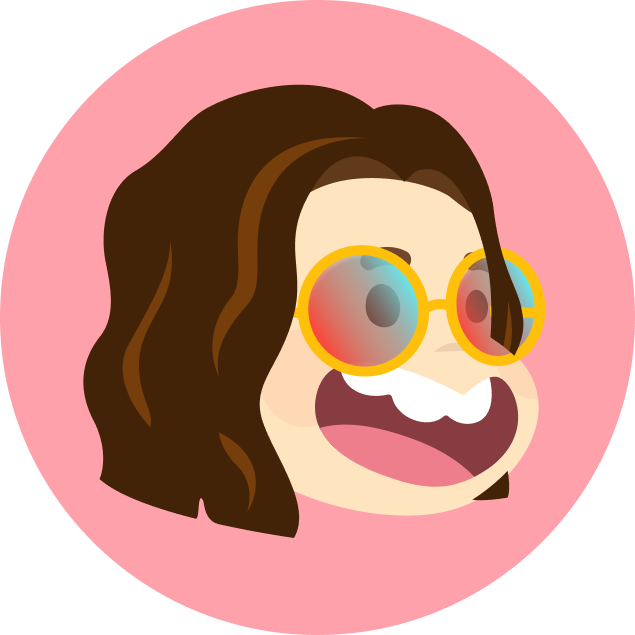
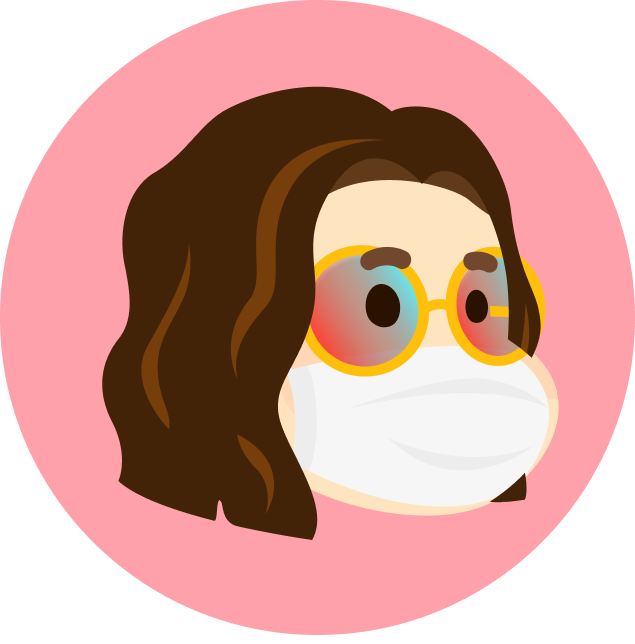
Finalizei a tela de profile e comecei a adicionar alertas no site

diff --git a/code/css/style.css b/code/css/style.css
@@ -71,6 +71,7 @@ body{
                       linear-gradient(to right, #64E8F0, #FF4034);
     background-origin: border-box;
     background-clip: content-box, border-box;
+    cursor: pointer;
 }
 
 /* Personalização add filme */
@@ -102,12 +103,8 @@ body{
     background-color: #232323;
     color: white;
     /* Propriedades para conseguir arredondar a borda com um gradiente */
-    border: double 0.2em transparent;
     border-radius: 7px;
-    background-image: linear-gradient(#232323, #232323), 
-                      linear-gradient(to right, #64E8F0, #FF4034);
-    background-origin: border-box;
-    background-clip: content-box, border-box;
+    border: #FF4034 3px solid;
 }
 
 .row{
@@ -123,12 +120,8 @@ body{
     color: white;
     
     /* Propriedades para conseguir arredondar a borda com um gradiente */
-    border: double 0.2em transparent;
     border-radius: 7px;
-    background-image: linear-gradient(#232323, #232323), 
-                      linear-gradient(to right, #64E8F0, #FF4034);
-    background-origin: border-box;
-    background-clip: content-box, border-box;
+    border: #FF4034 3px solid;
 }
 
 
@@ -141,16 +134,13 @@ body{
     font-family: Roboto, Oxygen, Ubuntu, Cantarell, 'Open Sans', 'Helvetica Neue', sans-serif;
     background-color: #232323;
     /* Propriedades para conseguir arredondar a borda com um gradiente */
-    border: double 0.2em transparent;
     border-radius: 7px;
-    background-image: linear-gradient(#232323, #232323), 
-                      linear-gradient(to right, #64E8F0, #FF4034);
-    background-origin: border-box;
-    background-clip: content-box, border-box;
+    border: #FF4034 3px solid;
+   
 }
 
 
-button{
+.validate{
     height: 40px;
     width: 150px;
     display: flex;
@@ -210,6 +200,28 @@ button{
     justify-content: space-evenly;
 }
 
+.avatarMask{
+    display: flex;
+    align-items: center;
+    justify-content: center;
+    border-radius: 70px;
+    height: 120px;
+    width: 400px;
+    background-color: whitesmoke;
+}
+
+.imageMask{
+    display: flex;
+    justify-content: space-evenly;
+    width: 100%;
+}
+.sizePhoto{
+    height: 85px;
+    border: #ea0000 solid 5px;
+    border-radius: 52px;
+    cursor: pointer;
+}
+
 .initial label{
     color: white;
     font-size: 30px;
@@ -239,4 +251,22 @@ button{
 
 .inModify label{
     color: white;
+    font-size: 18px;
+    }
+
+.modifyButton{
+    height: 40px;
+    width: 150px;
+    display: flex;
+    align-items: center;
+    justify-content: center;
+    color: white;
+    
+/* Propriedades para conseguir arredondar a borda com um gradiente */
+    border: double 0.2em transparent;
+    border-radius: 7px;
+    background-image: linear-gradient(#4F4E63, #4F4E63), 
+                      linear-gradient(to right, #64E8F0, #FF4034);
+    background-origin: border-box;
+    background-clip: content-box, border-box;
 }

diff --git a/code/html/login.html b/code/html/login.html
@@ -6,6 +6,8 @@
     <title>Tela de login</title>
     <link rel="stylesheet" href="../css/styleLogin.css">
     <link rel="icon" type="image/png" sizes="16x16" href="../assets img/favicon-16x16.png">
+    <script src="https://unpkg.com/sweetalert/dist/sweetalert.min.js"></script>
+
 </head>
 <body>
     <section class="div_geral">  
@@ -32,14 +34,20 @@
                         <input id="input_senha" type="password" placeholder="Digite aqui sua senha">
                     </div>
 
-                    <div class="div_botao">
-                        <button class="botao_entrar">
+                    <div class="div_botao"> 
+                        <button type="button" onclick="location.href = '../html/cadastro.html'" class="botao_entrar">
+                            Cadastre-se
+                        </button>
+
+                        <button type="submit" class="botao_entrar">
                             ENTRAR
                         </button>
                     </div>
 
-                    <div class="message">
-                       Ainda não tem conta?  <a href="../html/cadastro.html"> Registre-se aqui!</a>
+                    <div class="message" onclick="popup(event)">
+                        <a href="">
+                            Esqueci a senha
+                        </a>  
                     </div>
                 </form>
             </div>
@@ -48,4 +56,18 @@
 
 </body>
 </html>
+
 <script src="../js/configLogin.js"> </script>
+<script>
+    function popup(event) {
+        event.preventDefault()
+        swal({
+            text: 'Escreva aqui o email cadastrado',
+            content: "input",
+            button: {
+                text: "Enviar código",
+                closeModal: true,
+                        }
+                    })
+    }
+</script>

diff --git a/code/html/profile.html b/code/html/profile.html
@@ -28,13 +28,17 @@
                 <img src="../assets img/avatarThais.png" alt="" class="imageTails">
             </div>
             <label for="" class="">Thaís Calazans</label> 
+
+            <div class="avatarMask">
+                <div class="imageMask">
+                    <img src="../assets img/avatarThais.png" alt="Avatar com mascara"   class="sizePhoto">
+                    <img src="../assets img/AvatarPreta.png" alt="Avatar com mascara 2" class="sizePhoto">
+                    <img src="../assets img/Avatar Isa.png"  alt="Avatar com mascara 3" class= "sizePhoto">
+                </div>
+            </div>
         </div>
         
         <form action="" class="dataModify" onsubmit="validarCadastro(event)">
-            <div class="inModify">
-                <label for="input_nome">NOME</label>
-                <input id="input_nome" type="text">
-            </div>
             
             <div class="inModify">
                 <label for="input_email">ALTERAR EMAIL</label>
@@ -50,6 +54,10 @@
                 <label for="input_Csenha">CONFIRMAR NOVA SENHA</label>
                 <input id="input_Csenha" type="password" value="thais">
             </div>
+
+            <button class="modifyButton">
+                Salvar alterações
+            </button>
     </section>
 </body>
 </html>

diff --git a/code/html/add.html b/code/html/add.html
@@ -6,6 +6,8 @@
     <title>Adicionar Filme</title>
     <link rel="stylesheet" href="../css/style.css">
     <link rel="icon" type="image/png" sizes="16x16" href="../assets img/favicon-16x16.png">
+    <script src="https://unpkg.com/sweetalert/dist/sweetalert.min.js"></script>
+
 </head>
 <body>
     <aside id="menuVertical">
@@ -26,7 +28,7 @@
         <form class="data_movie" action="">
             <div class="in">
                 <label for="title">Título do filme</label> 
-                <input id="title" type="text">
+                <input id="title" type="text" required>
             </div>
 
             <div class="row">
@@ -50,7 +52,7 @@
                 <input id="synopsis" type="text" required>
             </div>
             
-            <button class="validate"> Cadastrar filme </button>
+            <button class="validate" onclick="validar(event)"> Cadastrar filme </button>
         </form>
 
         <div class="photo">
@@ -59,3 +61,9 @@
     </section>
 </body>
 </html>
+<script>
+    function validar(event) {
+        event.preventDefault()
+        swal("Obrigada!", "Agora você ajudou outra pessoa a escolher o próximo filme!", "success");  
+    }
+</script>

diff --git a/code/html/cadastro.html b/code/html/cadastro.html
@@ -10,7 +10,6 @@
 </head>
 <body>
     <section class="generalFront">
-
         <div class="registerPhoto">
             <img class="popcornGlass" src="../assets img/fotoCadastro.png" alt="Pipoca, óculos e refrigerante">
         </div>
@@ -40,6 +39,12 @@
                 </div>
                 
                 <div class="div_botao">
+                    <div class="arrow">
+                        <a href="../html/login.html">
+                            <img src="../assets img/Arrow - Left Circle.png" alt="Flecha" class="arrowOnly">
+                        </a>
+                    </div>
+
                     <button>
                         <a href="../html/login.html"></a>
                         Cadastrar

diff --git a/code/css/styleCadastro.css b/code/css/styleCadastro.css
@@ -13,6 +13,7 @@
     margin: 0;
 }
 
+
 .registerPhoto{
     height: 100vh;
     width: 50vw;
@@ -61,10 +62,19 @@
     background-color: #ffffff;
 }
 
+.arrow{
+    height: 50px;
+}
+
+.arrowOnly{
+    height: 50px;
+    width: 50px;
+}
+
 .div_botao{
     display: flex;
-    justify-content: center;
-    margin: 15px 0px 0px 0px;
+    justify-content: space-evenly;
+    align-items: center;
 }
 
 .div_botao button{

diff --git a/code/css/styleLogin.css b/code/css/styleLogin.css
@@ -72,13 +72,13 @@
 
 .div_botao{
     display: flex;
-    justify-content: flex-end;
+    justify-content: space-evenly;
 }
 
 
 .botao_entrar{
     height: 30px;
-    width: 150px;
+    width: 145px;
     font-size: 15px;
     color: #ffffff;
     font-family: Roboto, Oxygen, Ubuntu, Cantarell, 'Open Sans', 'Helvetica Neue', sans-serif;

diff --git a/code/html/index.html b/code/html/index.html
@@ -6,6 +6,7 @@
     <title>Home</title>
     <link rel="stylesheet" href="../css/style.css">
     <link rel="icon" type="image/png" sizes="16x16" href="../assets img/favicon-16x16.png">
+    <script src="https://cdn.jsdelivr.net/npm/sweetalert2@10"></script>
 </head>
 <body>
     <aside id="menuVertical">
